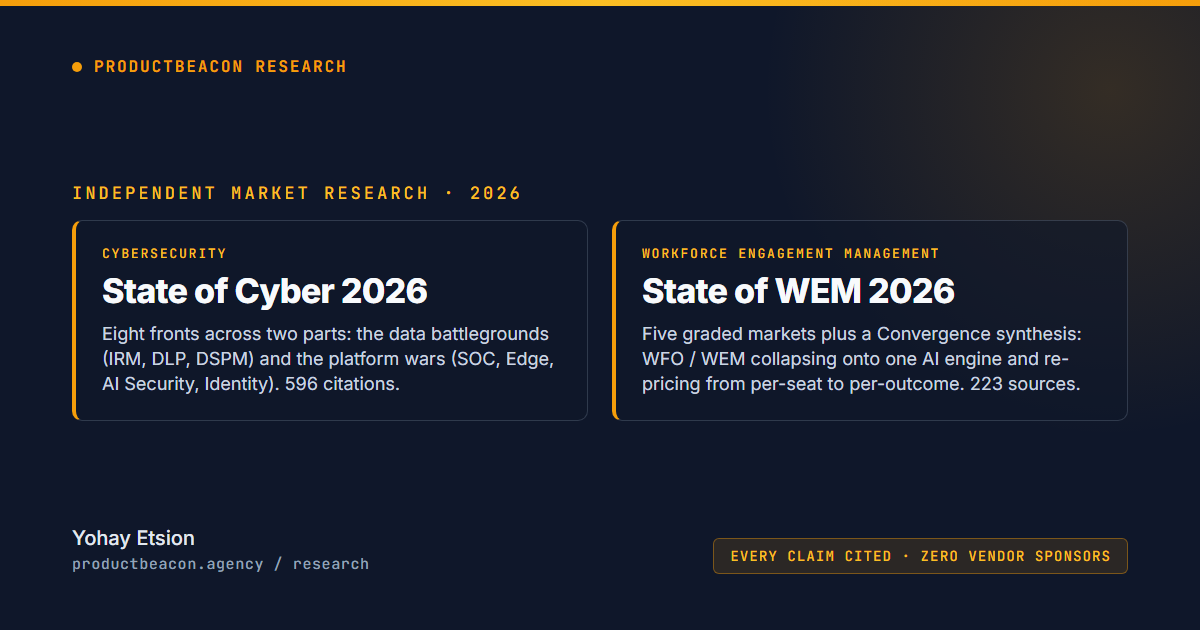
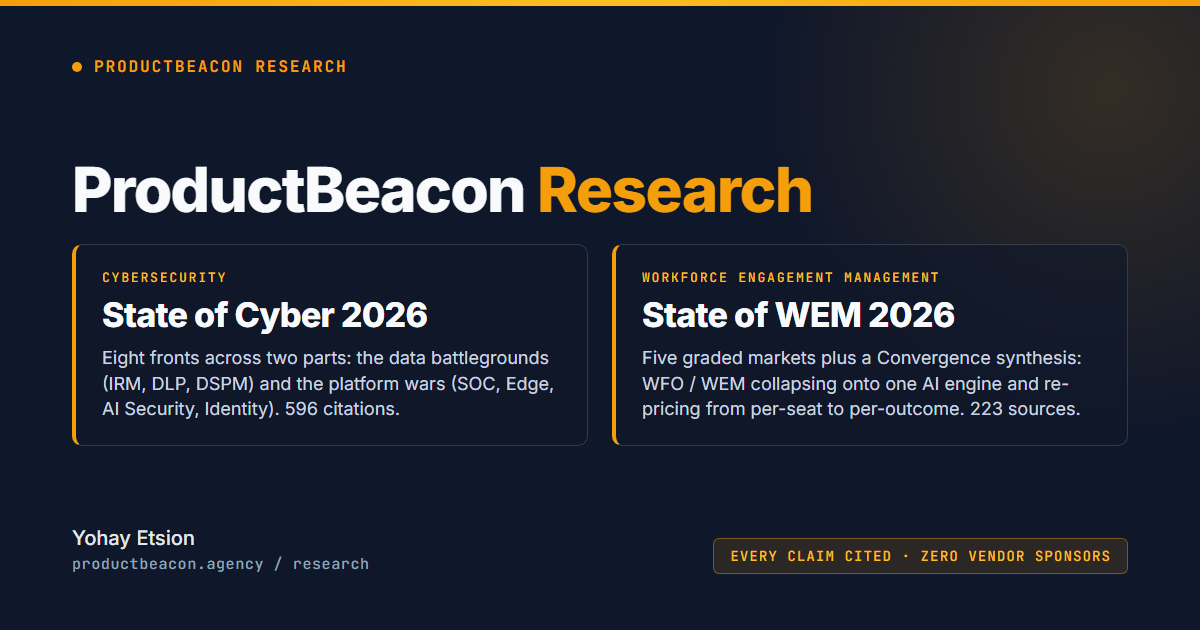
og: workforce and research card headlines per owner (A Workforce you Govern; ProductBeacon Research)
Claude-Session: https://claude.ai/code/session_01PJ3c35i8zwDd1pJVKcSkYZ

diff --git a/scripts/generate-og-featured.py b/scripts/generate-og-featured.py
@@ -155,7 +155,7 @@ def workforce_card() -> str:
   <div class="brand"><span class="brand-dot"></span>ProductBeacon</div>
   <div class="mid">
     <div class="eyebrow">The ProductBeacon AI Workforce</div>
-    <h1>A workforce you govern. <span class="amber">Every specialist named.</span></h1>
+    <h1>A <span class="amber">Workforce</span> you Govern</h1>
     <div class="stats">
       <div class="stat"><b>15</b><span>teams</span></div>
       <div class="stat"><b>96</b><span>specialists</span></div>
@@ -175,7 +175,7 @@ def research_card() -> str:
     return shell("""
   <div class="brand"><span class="brand-dot"></span>ProductBeacon Research</div>
   <div class="mid">
-    <div class="eyebrow">Independent market research · 2026</div>
+    <h1 style="margin-bottom:22px">ProductBeacon <span class="amber">Research</span></h1>
     <div class="reports">
       <div class="report">
         <div class="k">Cybersecurity</div>
